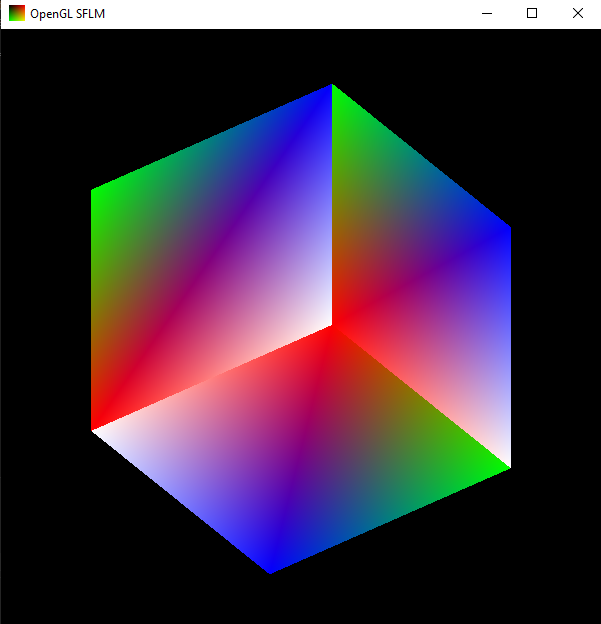
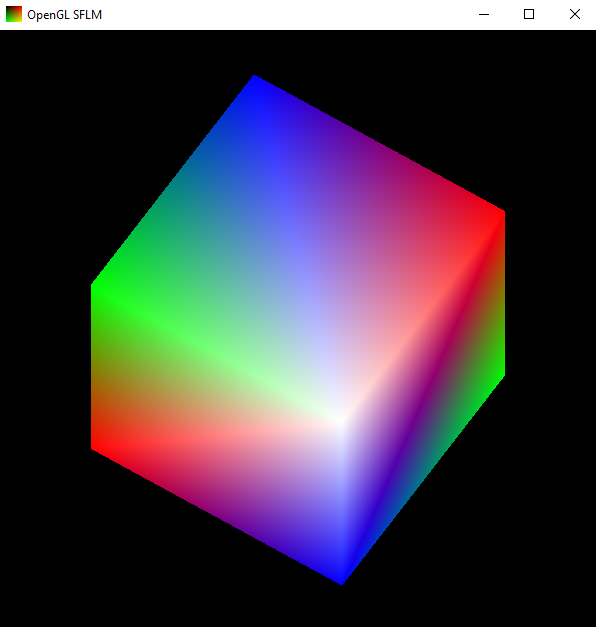
add tetrahedron

diff --git a/SFML_threedimensional_figures/opengl_threedimensional/AppOpenGlThreeDimensional.cpp b/SFML_threedimensional_figures/opengl_threedimensional/AppOpenGlThreeDimensional.cpp
@@ -7,7 +7,6 @@
 void CreateTriangle();
 void CreateCircle();
 void CreateSquare();
-//void createCircleColor(int numberOfIterations, int iteration);
 
 int main(int argc, char* argv[])
 {
@@ -66,40 +65,64 @@ int main(int argc, char* argv[])
 void CreateSquare()
 {
 	glBegin(GL_POLYGON);
-	glColor3f(1.0, 0.0, 0.0); glVertex3f(-0.5, -0.5, -0.5);
-	glColor3f(0.0, 1.0, 0.0); glVertex3f(-0.5, 0.5, -0.5);
-	glColor3f(0.0, 0.0, 1.0); glVertex3f(0.5, 0.5, -0.5);
-	glColor3f(1.0, 1.0, 1.0); glVertex3f(0.5, -0.5, -0.5);
+	glColor3f(0.0, 0.0, 1.0); glVertex3f(-0.5, -0.5, -0.5);
+	glColor3f(1.0, 1.0, 1.0); glVertex3f(-0.5, 0.5, -0.5);
+	glColor3f(1.0, 0.0, 0.0); glVertex3f(0.5, 0.5, -0.5);
+	glColor3f(0.0, 1.0, 0.0); glVertex3f(0.5, -0.5, -0.5);
 	glEnd();
 	glBegin(GL_POLYGON);
-	glColor3f(1.0, 0.0, 0.0); glVertex3f(0.5, -0.5, 0.5);
-	glColor3f(0.0, 1.0, 0.0); glVertex3f(0.5, 0.5, 0.5);
-	glColor3f(0.0, 0.0, 1.0); glVertex3f(-0.5, 0.5, 0.5);
-	glColor3f(1.0, 1.0, 1.0); glVertex3f(-0.5, -0.5, 0.5);
+	glColor3f(1.0, 1.0, 1.0); glVertex3f(0.5, -0.5, 0.5);
+	glColor3f(0.0, 0.0, 1.0); glVertex3f(0.5, 0.5, 0.5);
+	glColor3f(0.0, 1.0, 0.0); glVertex3f(-0.5, 0.5, 0.5);
+	glColor3f(1.0, 0.0, 0.0); glVertex3f(-0.5, -0.5, 0.5);
 	glEnd();
 	glBegin(GL_POLYGON);
-	glColor3f(1.0, 0.0, 0.0); glVertex3f(0.5, -0.5, -0.5);
-	glColor3f(0.0, 1.0, 0.0); glVertex3f(0.5, 0.5, -0.5);
+	glColor3f(0.0, 1.0, 0.0); glVertex3f(0.5, -0.5, -0.5);
+	glColor3f(1.0, 0.0, 0.0); glVertex3f(0.5, 0.5, -0.5);
 	glColor3f(0.0, 0.0, 1.0); glVertex3f(0.5, 0.5, 0.5);
 	glColor3f(1.0, 1.0, 1.0); glVertex3f(0.5, -0.5, 0.5);
 	glEnd();
 	glBegin(GL_POLYGON);
 	glColor3f(1.0, 0.0, 0.0); glVertex3f(-0.5, -0.5, 0.5);
 	glColor3f(0.0, 1.0, 0.0); glVertex3f(-0.5, 0.5, 0.5);
-	glColor3f(0.0, 0.0, 1.0); glVertex3f(-0.5, 0.5, -0.5);
-	glColor3f(1.0, 1.0, 1.0); glVertex3f(-0.5, -0.5, -0.5);
+	glColor3f(1.0, 1.0, 1.0); glVertex3f(-0.5, 0.5, -0.5);
+	glColor3f(0.0, 0.0, 1.0); glVertex3f(-0.5, -0.5, -0.5);
 	glEnd();
 	glBegin(GL_POLYGON);
-	glColor3f(1.0, 0.0, 0.0); glVertex3f(0.5, 0.5, 0.5);
-	glColor3f(0.0, 1.0, 0.0); glVertex3f(0.5, 0.5, -0.5);
-	glColor3f(0.0, 0.0, 1.0); glVertex3f(-0.5, 0.5, -0.5);
-	glColor3f(1.0, 1.0, 1.0); glVertex3f(-0.5, 0.5, 0.5);
+	glColor3f(0.0, 0.0, 1.0); glVertex3f(0.5, 0.5, 0.5);
+	glColor3f(1.0, 0.0, 0.0); glVertex3f(0.5, 0.5, -0.5);
+	glColor3f(1.0, 1.0, 1.0); glVertex3f(-0.5, 0.5, -0.5);
+	glColor3f(0.0, 1.0, 0.0); glVertex3f(-0.5, 0.5, 0.5);
 	glEnd();
 	glBegin(GL_POLYGON);
+	glColor3f(0.0, 1.0, 0.0); glVertex3f(0.5, -0.5, -0.5);
+	glColor3f(1.0, 1.0, 1.0); glVertex3f(0.5, -0.5, 0.5);
+	glColor3f(1.0, 0.0, 0.0); glVertex3f(-0.5, -0.5, 0.5);
+	glColor3f(0.0, 0.0, 1.0); glVertex3f(-0.5, -0.5, -0.5);
+	glEnd();
+}
+
+void CreateTriangle()
+{
+	glBegin(GL_POLYGON);
+	glColor3f(0.0, 0.0, 1.0); glVertex3f(-0.5, -0.5, -0.5);
+	glColor3f(0.0, 1.0, 0.0); glVertex3f(0.0, 0.5, -0.5);
 	glColor3f(1.0, 0.0, 0.0); glVertex3f(0.5, -0.5, -0.5);
-	glColor3f(0.0, 1.0, 0.0); glVertex3f(0.5, -0.5, 0.5);
-	glColor3f(0.0, 0.0, 1.0); glVertex3f(-0.5, -0.5, 0.5);
-	glColor3f(1.0, 1.0, 1.0); glVertex3f(-0.5, -0.5, -0.5);
+	glEnd();
+	glBegin(GL_POLYGON);
+	glColor3f(0.0, 0.0, 1.0); glVertex3f(-0.5, -0.5, -0.5);
+	glColor3f(1.0, 1.0, 1.0); glVertex3f(0.0, 0.0, 0.5);
+	glColor3f(0.0, 1.0, 0.0); glVertex3f(0.0, 0.5, -0.5);
+	glEnd();
+	glBegin(GL_POLYGON);
+	glColor3f(0.0, 0.1, 0.0); glVertex3f(0.0, 0.5, -0.5);
+	glColor3f(1.0, 1.0, 1.0); glVertex3f(0.0, 0.0, 0.5);
+	glColor3f(1.0, 0.0, 0.0); glVertex3f(0.5, -0.5, -0.5);
+	glEnd();
+	glBegin(GL_POLYGON);
+	glColor3f(0.0, 0.0, 0.1); glVertex3f(-0.5, -0.5, -0.5);
+	glColor3f(1.0, 1.0, 1.0); glVertex3f(0.0, 0.0, 0.5);
+	glColor3f(1.0, 0.0, 0.0); glVertex3f(0.5, -0.5, -0.5);
 	glEnd();
 }
 
@@ -110,21 +133,7 @@ void CreateCircle()
 	int iteration = 30;
 	for (int i = 0; i <= iteration; i++) {
 		float a = (float)i / 30.0f * 3.1415f * 2.0f;
-		//createCircleColor(i, iteration);
 		glVertex2f(cos(a) * 0.5f, sin(a) * 0.5f);
 	}
 	glEnd();
 }
-
-void CreateTriangle()
-{
-	glBegin(GL_TRIANGLES);
-	glColor3f(1.0, 0.0, 0.0); glVertex2f(-0.5f, -0.5f);
-	glColor3f(0.0, 1.0, 0.0); glVertex2f(-0.5f, 0.5f);
-	glColor3f(0.0, 0.0, 1.0); glVertex2f(0.5f, 0.0f);
-	glEnd();
-}
-
-//void createCircleColor()
-//{
-//}

diff --git a/SFML_threedimensional_figures/README.md b/SFML_threedimensional_figures/README.md
@@ -2,5 +2,8 @@
 
 ## Cube
 ![plot](../images/cube_SFML.png)	
+
+## Tetrahedron
+![plot](../images/tetrahedron_SFML.png)
 	
  
